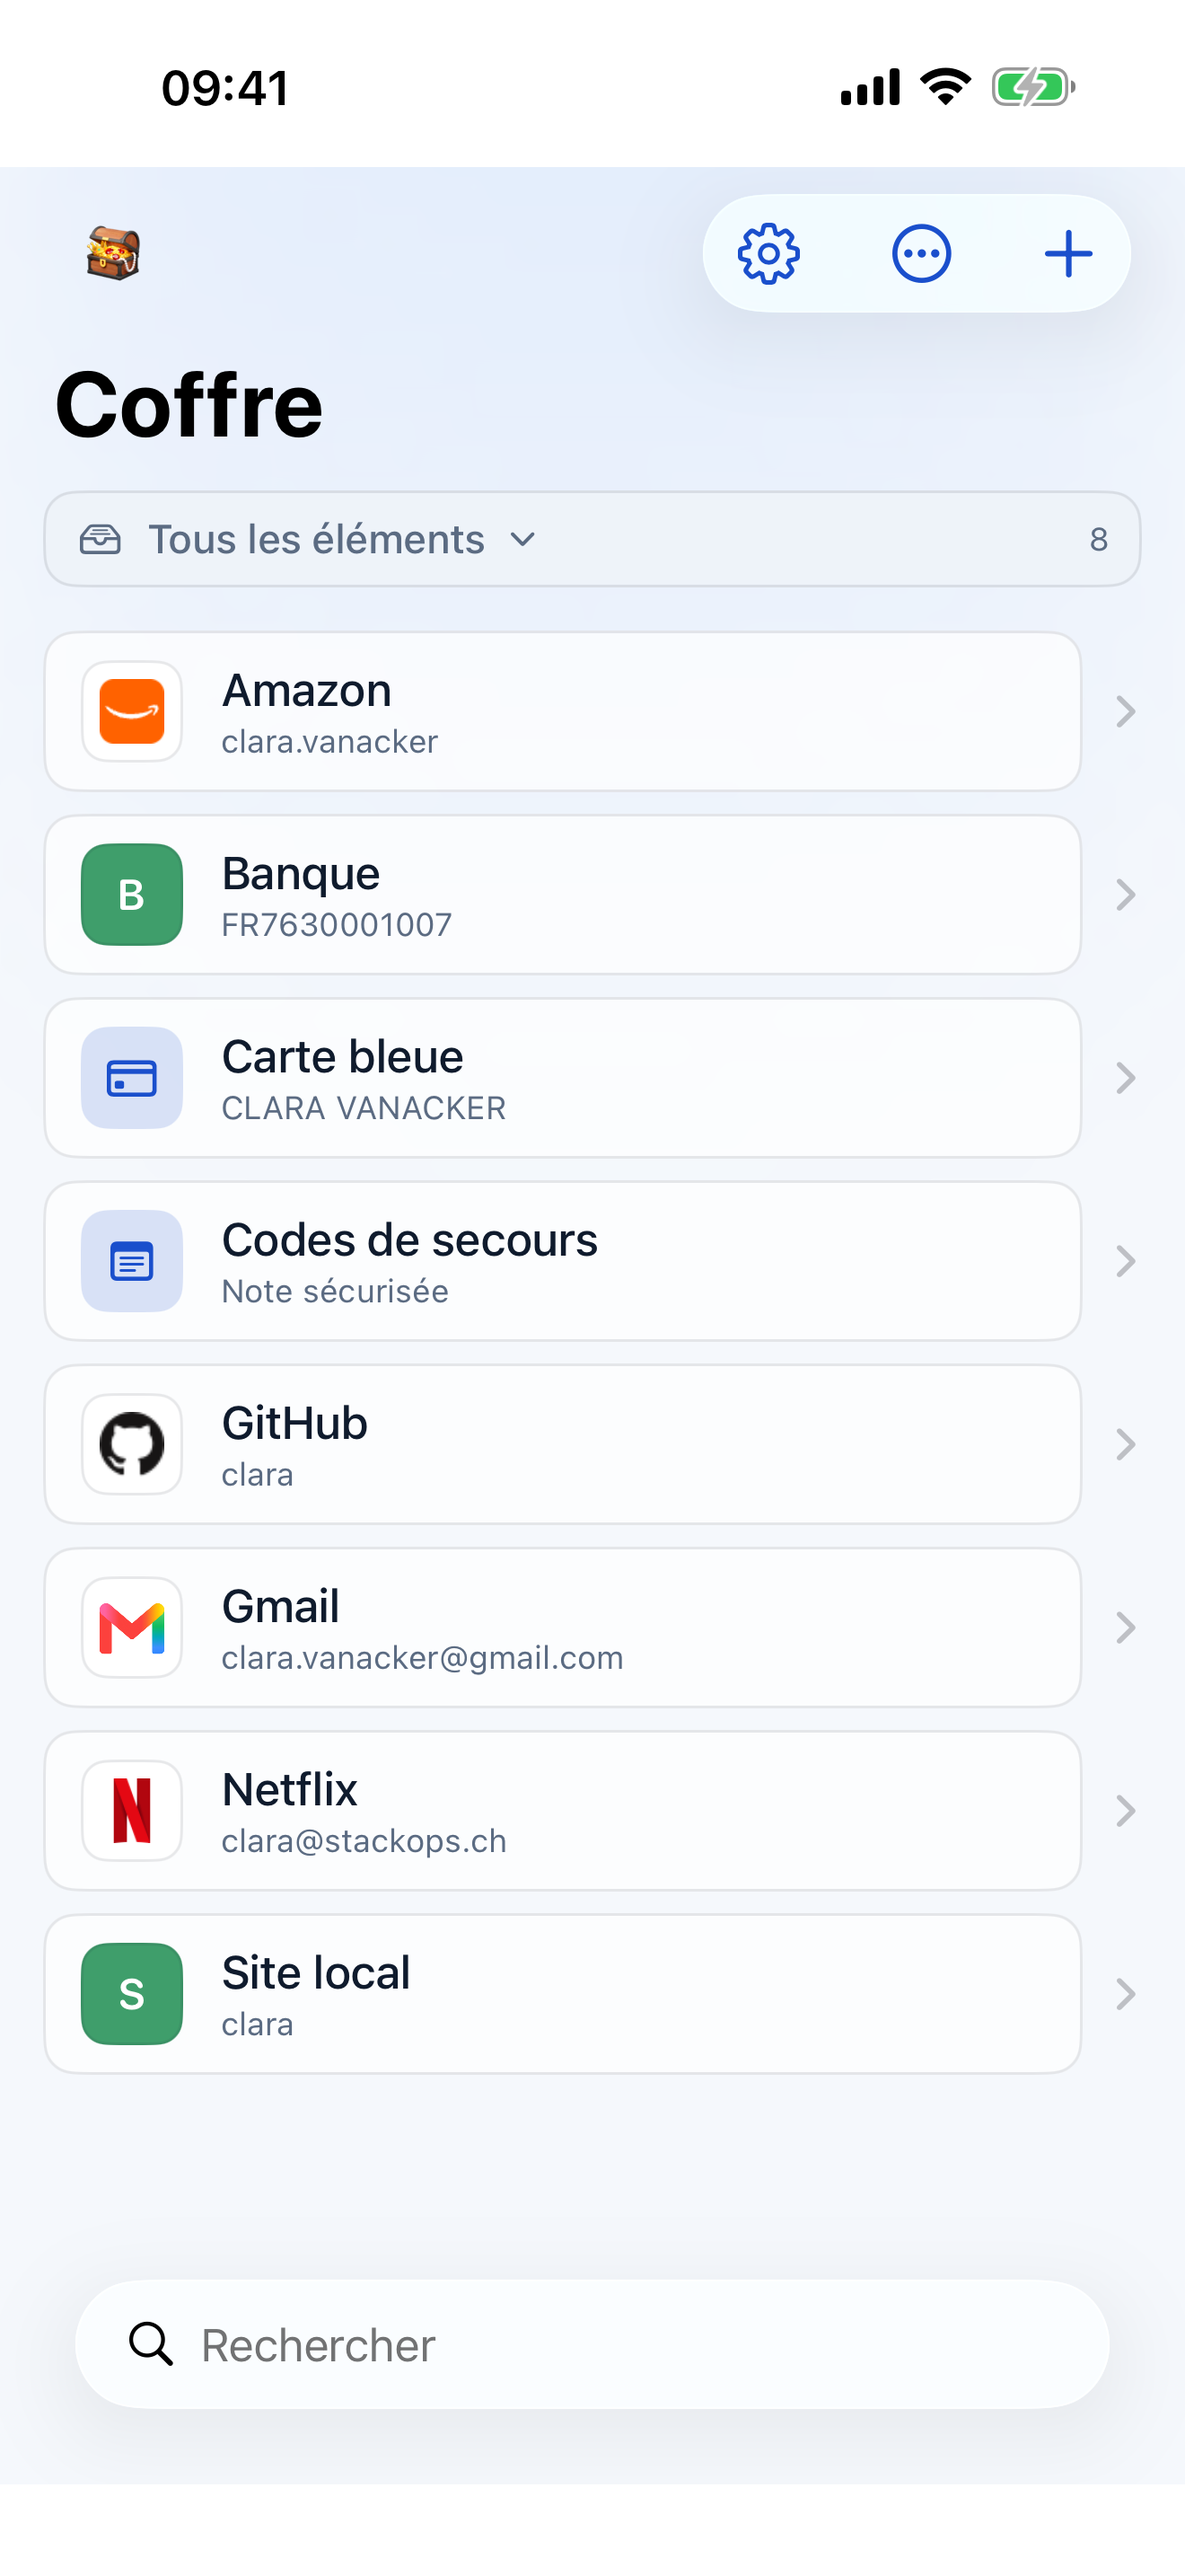
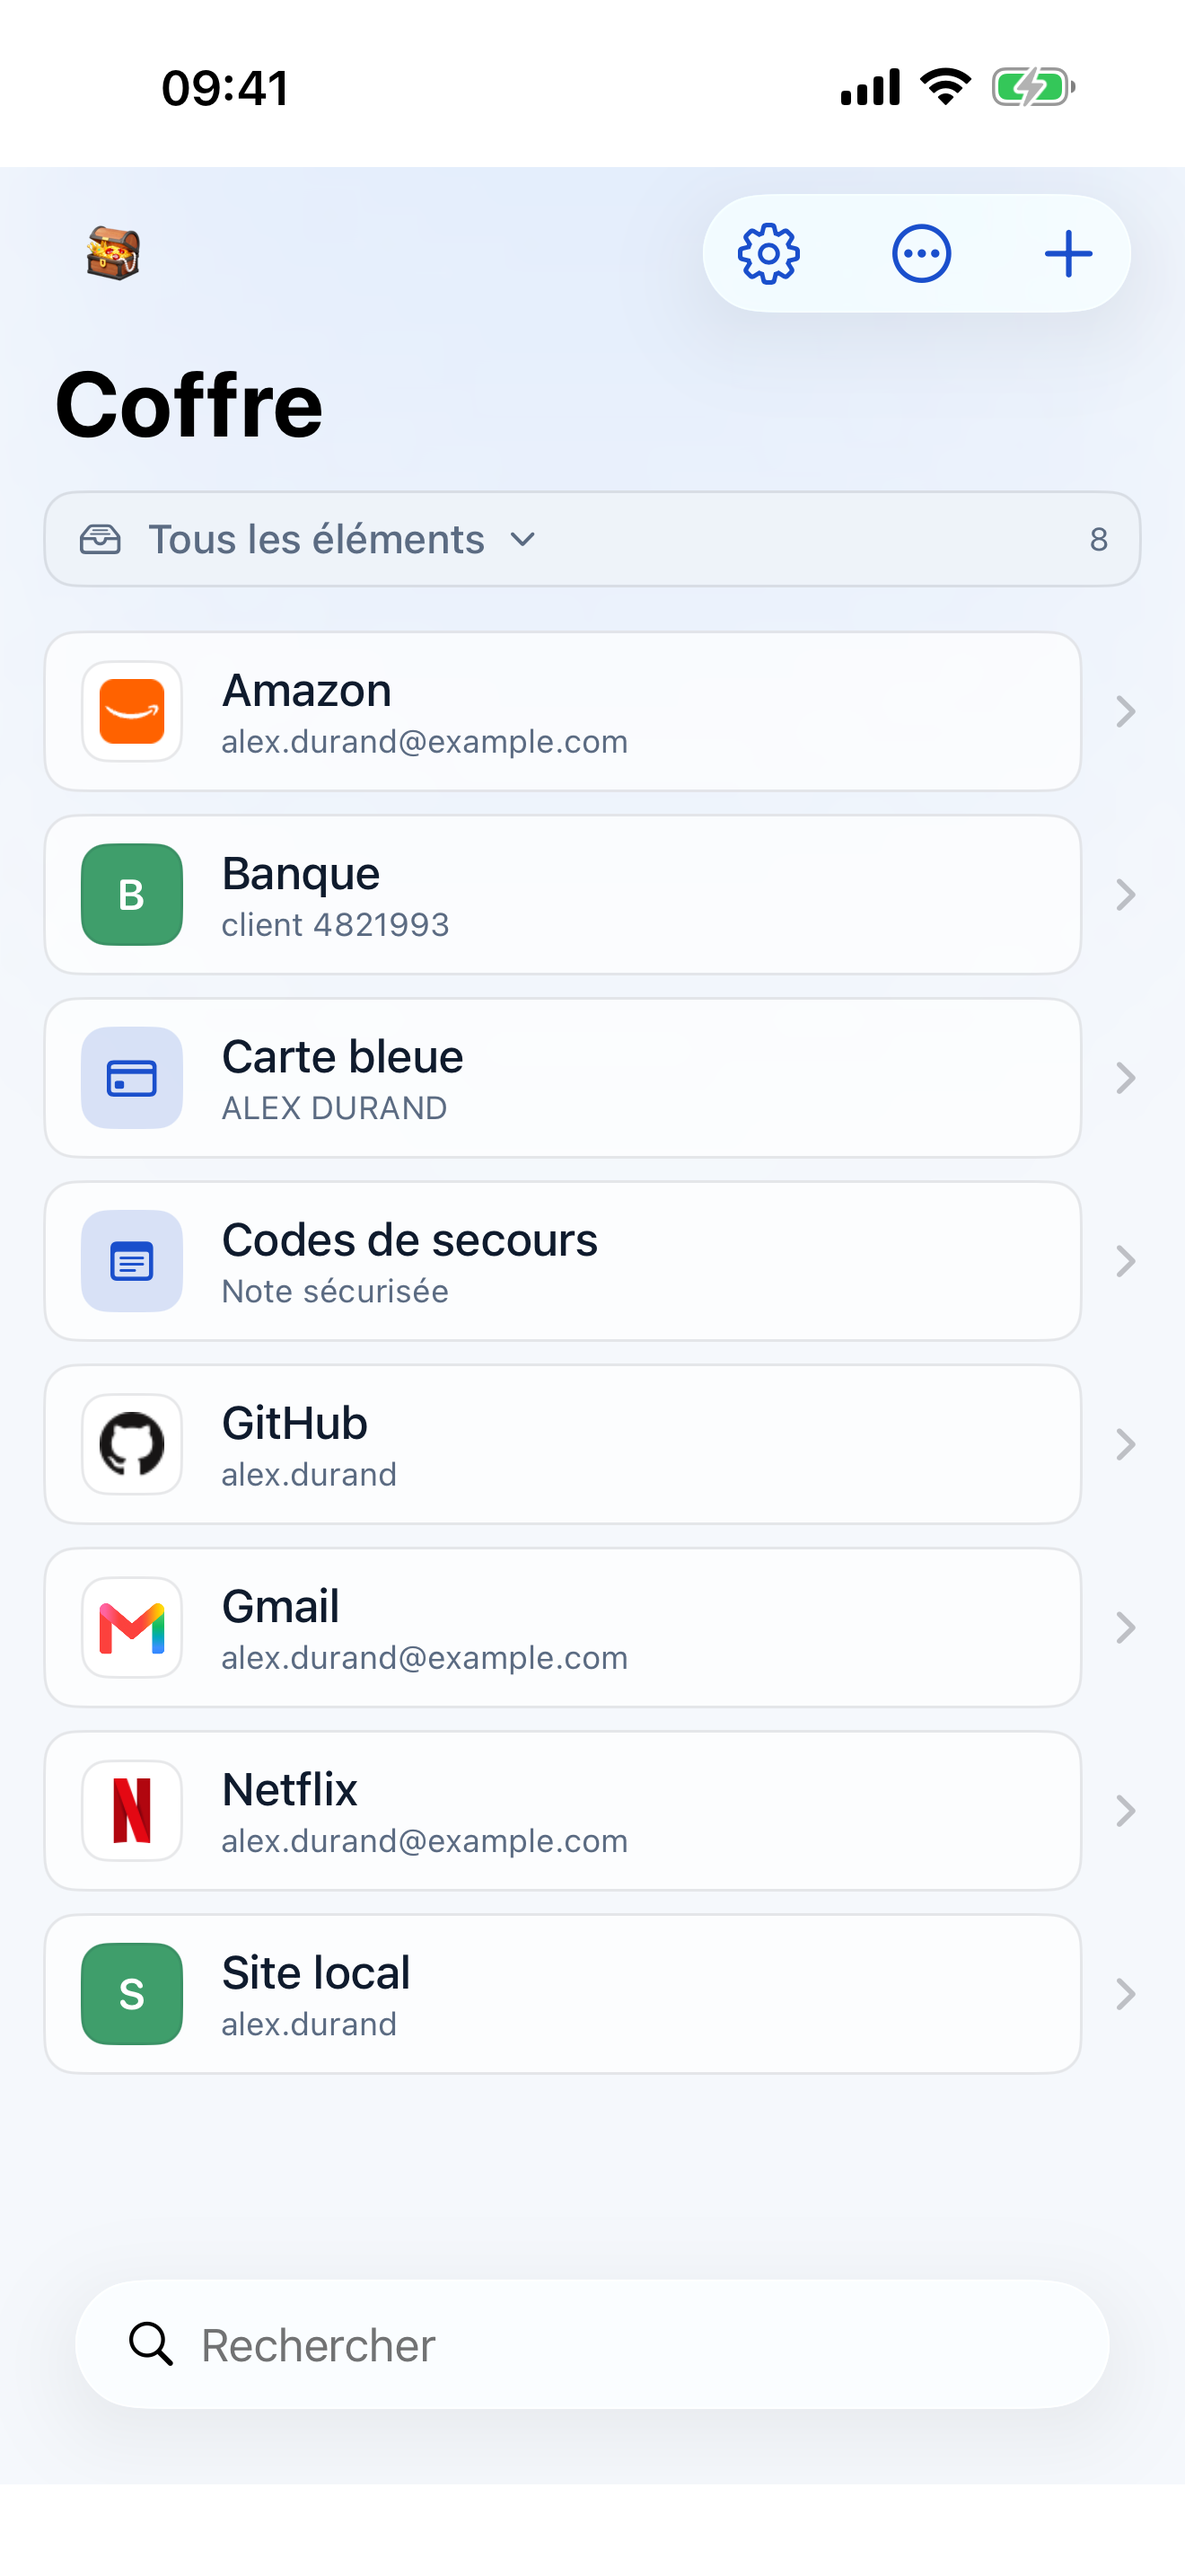
fix(tests): drive the screenshot run in English as well as French
Three more screens were reached by their French title: "Santé du coffre",
"Partager un secret", and the generator's "Générer". Each failed with a message that
accused the wrong thing — "ne s'ouvre pas depuis le menu" while the screen was open and
simply called "Vault health".

None of this was visible until someone took screenshots in another language. The
tooling assumed French everywhere: the locale was written into the script, and the
titles into the test.

The English titles come from the app's own string catalogue, not from a translation
made here: a label invented in a test drifts from the product without anyone noticing.

The French screenshots are replaced in the same commit, because the showcase vault no
longer carries a real identity, and the English ones are added.

Claude-Session: https://claude.ai/code/session_01NeGgjLTNhVRRAwTK1kttMZ

diff --git a/apps/ios/UITests/AppStoreShots.swift b/apps/ios/UITests/AppStoreShots.swift
@@ -148,8 +148,12 @@ final class AppStoreShots: XCTestCase {
 
         // Le menu, puis les écrans qu'il ouvre. Chaque bascule repasse par lui : une
         // navigation à partir d'un état connu échoue moins qu'un enchaînement d'allers.
-        ouvrirDepuisLeMenu(app, "button.health", titre: "Santé du coffre", rang: 3, nom: "sante")
-        ouvrirDepuisLeMenu(app, "button.send", titre: "Partager un secret", rang: 4, nom: "partage")
+        ouvrirDepuisLeMenu(
+            app, "button.health", titres: ["Santé du coffre", "Vault health"],
+            rang: 3, nom: "sante")
+        ouvrirDepuisLeMenu(
+            app, "button.send", titres: ["Partager un secret", "Share a secret"],
+            rang: 4, nom: "partage")
         prendreLeGenerateur(app)
     }
 
@@ -172,7 +176,14 @@ final class AppStoreShots: XCTestCase {
             return
         }
         taper(de)
-        guard app.navigationBars["Générer"].waitForExistence(timeout: 20) else {
+        // Les deux langues, comme partout ailleurs dans ce fichier : la fiche App Store
+        // réclame un jeu de captures par langue déclarée, et l'anglais dit « Generate ».
+        let generateur = app.navigationBars.containing(
+            NSCompoundPredicate(orPredicateWithSubpredicates: ["Générer", "Generate"].map {
+                NSPredicate(format: "identifier CONTAINS %@", $0)
+            })
+        ).firstMatch
+        guard generateur.waitForExistence(timeout: 20) else {
             XCTFail("le générateur ne s'ouvre pas — capture « generateur » manquée")
             return
         }
@@ -187,12 +198,23 @@ final class AppStoreShots: XCTestCase {
     /// première frappe déplie le menu, et la deuxième, au même endroit, atterrit sur sa
     /// première entrée. On ouvrait ainsi un écran au hasard tout en concluant que l'entrée
     /// était introuvable. Ici, dès que le titre attendu paraît, on s'arrête.
+    /// Ouvre un écran depuis le menu, et l'attend **dans les deux langues**.
+    ///
+    /// `titres` et non `titre` : les captures de la fiche se prennent aussi en anglais, et
+    /// un écran attendu sous son seul nom français ne s'y trouve jamais. Le test échouait
+    /// alors sur « ne s'ouvre pas depuis le menu » — ce qui accuse le menu, alors que
+    /// l'écran était ouvert et s'appelait simplement « Vault health ».
     private func ouvrirDepuisLeMenu(
-        _ app: XCUIApplication, _ identifiant: String, titre: String, rang: Int, nom: String
+        _ app: XCUIApplication, _ identifiant: String, titres: [String], rang: Int, nom: String
     ) {
+        let titre = titres.joined(separator: " / ")
         let menu = app.buttons["button.settings"]
         let entree = app.descendants(matching: .any).matching(identifier: identifiant).firstMatch
-        let titreDeLEcran = app.navigationBars[titre]
+        let titreDeLEcran = app.navigationBars.containing(
+            NSCompoundPredicate(orPredicateWithSubpredicates: titres.map {
+                NSPredicate(format: "identifier CONTAINS %@", $0)
+            })
+        ).firstMatch
 
         var ouvert = titreDeLEcran.exists
         for _ in 0..<6 where !ouvert {
